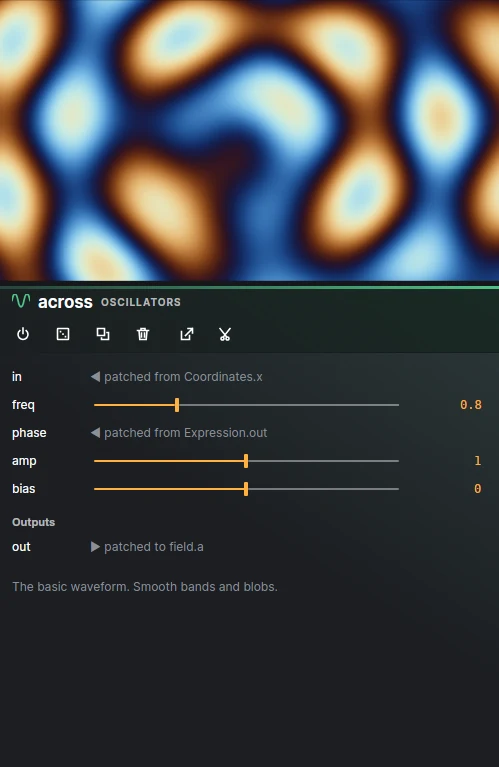
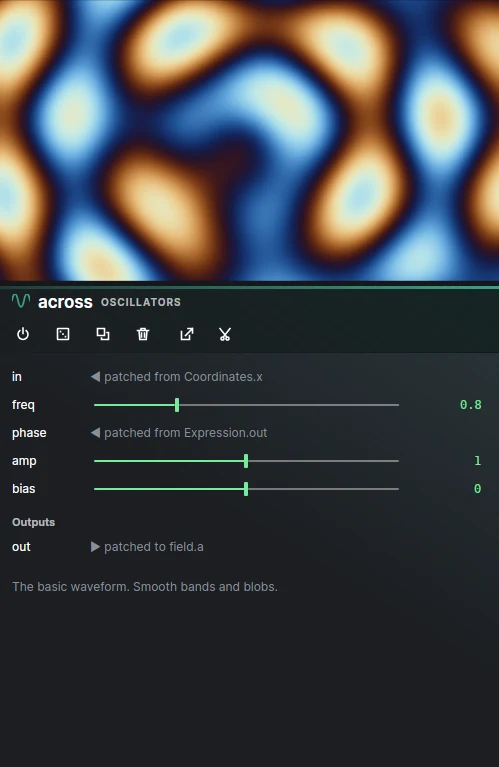
The editor's accent is the P31 green of the Beam's own trace
Amber was the generated default: Arek's other Claude-built app had landed on near-black and nearly the same amber. The accent is now #77EA9A, which the Beam module's formula gives at its default hue where the trace begins to whiten. Oscillators move to a darker sea green so a selected one still shows its ring, and the site's accent follows. ADR-0219 records why.

Test changed in the open: SocketSwitchTests wrote the old amber out as a channel test; it now reads Colors.Attention.

Claude-Session: https://claude.ai/code/session_013fHfANAUevgdY5GbtmwtPg

diff --git a/site/assets/site.css b/site/assets/site.css
@@ -28,7 +28,7 @@
   --normalled: #6C7482;
 
   /* the one color that means "look here" */
-  --attention: #FFB040;
+  --attention: #77EA9A;
 
   /* module families, borrowed to color a heading or a card's edge */
   --sink: #E05A5A;
@@ -128,7 +128,7 @@ strong { color: var(--bright); font-weight: 650; }
   background: var(--node); color: var(--bright);
 }
 .button:hover { background: var(--node-selected); color: var(--bright); }
-.button.primary { background: var(--attention); color: #16181B; border-color: #C98A2E; }
+.button.primary { background: var(--attention); color: #16181B; border-color: #4BB874; }
 .button.primary:hover { background: #FFC266; color: #16181B; }
 .button svg { width: 17px; height: 17px; flex: none; }
 

diff --git a/src/Flyback.Editor/Assist/ProbeSection.cs b/src/Flyback.Editor/Assist/ProbeSection.cs
@@ -16,7 +16,7 @@ namespace Flyback.Editor.Assist;
 /// </remarks>
 internal sealed class ProbeSection : StackPanel
 {
-    private static readonly IBrush Amber = new ImmutableSolidColorBrush(Colors.Attention);
+    private static readonly IBrush Lit = new ImmutableSolidColorBrush(Colors.Attention);
 
     private readonly Func<IPatchAssistant?> assistant;
 
@@ -35,7 +35,7 @@ internal sealed class ProbeSection : StackPanel
     private readonly Button probe = new() { Name = "probe", FontSize = Text.Body };
 
     /// <summary>
-    /// What a probe costs, said in amber above the button rather than in the gray
+    /// What a probe costs, said in the accent above the button rather than in the gray
     /// paragraph over it.
     /// </summary>
     /// <remarks>
@@ -50,7 +50,7 @@ internal sealed class ProbeSection : StackPanel
         Text = "Every question is a real request on your key: this costs money, "
             + "three requests for the one model.",
         FontSize = Text.Small,
-        Foreground = Amber,
+        Foreground = Lit,
         TextWrapping = TextWrapping.Wrap,
     };
 
@@ -184,13 +184,13 @@ internal sealed class ProbeSection : StackPanel
             // lost, and the answer is already lost either way.
             if (!ReferenceEquals(assistant(), asked))
             {
-                Say($"{asked.Name} answered after the provider changed, so nothing was kept.", amber: true);
+                Say($"{asked.Name} answered after the provider changed, so nothing was kept.", lit: true);
                 return;
             }
 
             if (found.Count == 0)
             {
-                Say("The endpoint did not answer for that model. Nothing was changed.", amber: true);
+                Say("The endpoint did not answer for that model. Nothing was changed.", lit: true);
                 return;
             }
 
@@ -218,7 +218,7 @@ internal sealed class ProbeSection : StackPanel
         {
             // A provider's own failure. The window survives it, and the sentence
             // is the whole of what anybody can act on.
-            Say(ex.Message, amber: true);
+            Say(ex.Message, lit: true);
         }
         finally
         {
@@ -262,11 +262,11 @@ internal sealed class ProbeSection : StackPanel
     }
 
     /// <summary>What the probe has to say, or nothing at all.</summary>
-    private void Say(string line, bool amber = false)
+    private void Say(string line, bool lit = false)
     {
         probeNote.Text = line;
         probeNote.IsVisible = line.Length > 0;
-        probeNote.Foreground = amber ? Amber : Text.Muted;
+        probeNote.Foreground = lit ? Lit : Text.Muted;
     }
 
     /// <summary>

diff --git a/src/Flyback.Ui/Controls/Colors.cs b/src/Flyback.Ui/Controls/Colors.cs
@@ -94,13 +94,18 @@ internal static class Colors
     /// Selection, the wire being dragged, and whatever the compiler wants to
     /// say. One color for all three on purpose: they are the same request.
     /// </summary>
-    public static Color Attention { get; } = Color.FromRgb(0xFF, 0xB0, 0x40);
+    /// <remarks>
+    /// P31 green, as the Beam module draws its trace at its default hue, taken where
+    /// the trace begins to whiten (ADR-0219).
+    /// </remarks>
+    public static Color Attention { get; } = Color.FromRgb(0x77, 0xEA, 0x9A);
 
     // --- module accents -----------------------------------------------------
 
     public static Color Sink { get; } = Color.FromRgb(0xE0, 0x5A, 0x5A);
     public static Color Source { get; } = Color.FromRgb(0x4A, 0x9E, 0xDE);
-    public static Color Oscillator { get; } = Color.FromRgb(0x4F, 0xC3, 0x87);
+    /// <summary>A dark sea green, kept off the P31 green of <see cref="Attention"/> so a selected oscillator still shows its ring.</summary>
+    public static Color Oscillator { get; } = Color.FromRgb(0x3A, 0xA1, 0x87);
     public static Color Sequencer { get; } = Color.FromRgb(0xD8, 0xB0, 0x4A);
     public static Color Maths { get; } = Color.FromRgb(0x7E, 0x86, 0x94);
     public static Color Space { get; } = Color.FromRgb(0xB4, 0x84, 0xE0);

diff --git a/src/Flyback.Editor/Tutorials/TutorialPanel.cs b/src/Flyback.Editor/Tutorials/TutorialPanel.cs
@@ -22,7 +22,7 @@ internal sealed class TutorialPanel : UserControl, IReactTo<PatchChanged>
     private static readonly IBrush Chrome = new ImmutableSolidColorBrush(Colors.Panel);
     private static readonly IBrush Rule = new ImmutableSolidColorBrush(Colors.Edge);
     private static readonly IBrush Ink = new ImmutableSolidColorBrush(Colors.Label);
-    private static readonly IBrush Amber = new ImmutableSolidColorBrush(Colors.Attention);
+    private static readonly IBrush Lit = new ImmutableSolidColorBrush(Colors.Attention);
     private static readonly IBrush Met = new ImmutableSolidColorBrush(Colors.Oscillator);
     private static readonly IBrush Current = new ImmutableSolidColorBrush(Colors.NodeSelected);
 
@@ -225,7 +225,7 @@ internal sealed class TutorialPanel : UserControl, IReactTo<PatchChanged>
             lesson.Children.Add(Words(step.Text));
 
             if (Hint is { } hint)
-                lesson.Children.Add(new TextBlock { Name = "tutorial-hint", Text = $"Still to do: {hint}", FontSize = Text.Small, Foreground = Amber, TextWrapping = TextWrapping.Wrap });
+                lesson.Children.Add(new TextBlock { Name = "tutorial-hint", Text = $"Still to do: {hint}", FontSize = Text.Small, Foreground = Lit, TextWrapping = TextWrapping.Wrap });
         }
         else
         {

diff --git a/src/Flyback.Editor/Assist/AssistantStatus.cs b/src/Flyback.Editor/Assist/AssistantStatus.cs
@@ -12,7 +12,7 @@ namespace Flyback.Editor.Assist;
 /// <summary>The pill in the assistant's header holding the beacon: working, ready, not set up, or driven.</summary>
 internal sealed class AssistantStatus
 {
-    private static readonly IBrush Amber = new ImmutableSolidColorBrush(Colors.Attention);
+    private static readonly IBrush Lit = new ImmutableSolidColorBrush(Colors.Attention);
     private static readonly IBrush Live = new ImmutableSolidColorBrush(Colors.Feedback);
     private static readonly IBrush LiveInk = new ImmutableSolidColorBrush(Colors.Blend(Colors.Feedback, Avalonia.Media.Colors.White, 0.3));
     private static readonly IBrush LiveGround = new ImmutableSolidColorBrush(Colors.Faded(Colors.Feedback, 0.13));
@@ -69,7 +69,7 @@ internal sealed class AssistantStatus
     public void Ready(string? blocked)
     {
         beacon.Opacity = 1;
-        beacon.Fill = blocked is null ? Text.Muted : Amber;
+        beacon.Fill = blocked is null ? Text.Muted : Lit;
         progress.Text = blocked is null ? "Ready" : "Not set up";
         progress.Foreground = Ink;
         View.Background = Idle;

diff --git a/src/Flyback.Editor/Assist/AssistantComposer.cs b/src/Flyback.Editor/Assist/AssistantComposer.cs
@@ -19,7 +19,7 @@ namespace Flyback.Editor.Assist;
 /// </summary>
 internal sealed class AssistantComposer
 {
-    private static readonly IBrush Amber = new ImmutableSolidColorBrush(Colors.Attention);
+    private static readonly IBrush Lit = new ImmutableSolidColorBrush(Colors.Attention);
     private static readonly IBrush Chrome = new ImmutableSolidColorBrush(Colors.Panel);
     private static readonly IBrush Rule = new ImmutableSolidColorBrush(Colors.Edge);
 
@@ -181,7 +181,7 @@ internal sealed class AssistantComposer
     }
 
     /// <summary>
-    /// Says why a message cannot be sent, on the box and in amber above it, or
+    /// Says why a message cannot be sent, on the box and in the accent above it, or
     /// nothing where <paramref name="excuse"/> is null.
     /// </summary>
     public void Excuse(string? excuse)
@@ -193,7 +193,7 @@ internal sealed class AssistantComposer
         if (excuse is null) return;
 
         footer.Text = excuse;
-        footer.Foreground = Amber;
+        footer.Foreground = Lit;
     }
 
     /// <summary>

diff --git a/src/Flyback.Editor/Assist/TranscriptView.cs b/src/Flyback.Editor/Assist/TranscriptView.cs
@@ -16,7 +16,7 @@ namespace Flyback.Editor.Assist;
 /// <summary>The assistant's conversation as it is drawn, and as it is kept to be saved with the patch.</summary>
 internal sealed class TranscriptView : ScrollViewer, ITranscript
 {
-    private static readonly IBrush Amber = new ImmutableSolidColorBrush(Colors.Attention);
+    private static readonly IBrush Lit = new ImmutableSolidColorBrush(Colors.Attention);
     private static readonly IBrush Ink = new ImmutableSolidColorBrush(Colors.Label);
     private static readonly IBrush Live = new ImmutableSolidColorBrush(Colors.Feedback);
 
@@ -156,7 +156,7 @@ internal sealed class TranscriptView : ScrollViewer, ITranscript
                 break;
 
             case Voice.Failed:
-                Card(text, Colors.Attention, Glyphs.Warning(10, Amber), "Failed", null);
+                Card(text, Colors.Attention, Glyphs.Warning(10, Lit), "Failed", null);
                 break;
 
             // A lookup is a step it took; the briefing comes before any turn.

diff --git a/tests/Flyback.Editor.Tests/Canvas/SocketSwitchTests.cs b/tests/Flyback.Editor.Tests/Canvas/SocketSwitchTests.cs
@@ -298,7 +298,9 @@ public class SocketSwitchTests : EditorTest
         Settle(window);
     }
 
-    private static bool Attention(Avalonia.Media.Color color) => color.R > 0xC0 && color.G > 0x80 && color.B < 0x90;
+    /// <summary>Within a few steps of the turning color, read off <see cref="Colors.Attention"/> rather than written out again.</summary>
+    private static bool Attention(Avalonia.Media.Color color) =>
+        Math.Abs(color.R - Colors.Attention.R) + Math.Abs(color.G - Colors.Attention.G) + Math.Abs(color.B - Colors.Attention.B) < 60;
 
     /// <summary>The bottom of the ring round a socket, below the socket's own dot, as a rectangle of the patch.</summary>
     private static Rect UnderRing(NodeEditor editor, NodeInstance node, int port)

diff --git a/src/Flyback.Editor/ReportLine.cs b/src/Flyback.Editor/ReportLine.cs
@@ -292,7 +292,7 @@ internal sealed class ReportLine : UserControl
 
         // Which rows are still on the bar — all of them, when several things
         // were said at once. Only a message that is still up is still true, and
-        // an amber row under a status bar that has gone quiet says the opposite
+        // an accent-colored row under a status bar that has gone quiet says the opposite
         // of what happened. The last of each, because a problem that was fixed
         // and came back is the newer row rather than both.
         var standing = spoken

diff --git a/src/Flyback.Editor/Assist/ContextStrip.cs b/src/Flyback.Editor/Assist/ContextStrip.cs
@@ -22,7 +22,7 @@ internal sealed class ContextStrip : StackPanel
     private static readonly IBrush Full = new ImmutableSolidColorBrush(Colors.Attention);
     private static readonly IBrush Ink = new ImmutableSolidColorBrush(Colors.Label);
 
-    /// <summary>Past this much of the limit the bar turns amber: the next message may be the last.</summary>
+    /// <summary>Past this much of the limit the bar turns to the accent: the next message may be the last.</summary>
     private const double Nearly = 0.85;
 
     private readonly Button strip = new()

diff --git a/src/Flyback.Editor/EditorTheme.cs b/src/Flyback.Editor/EditorTheme.cs
@@ -32,7 +32,7 @@ internal static class EditorTheme
         resources["ButtonBackgroundDisabled"] = Brushes.Transparent;
         resources["ToggleButtonBackgroundDisabled"] = Brushes.Transparent;
 
-        // Dark ink on the amber of a toggle that is down; white on it fails contrast.
+        // Dark ink on the accent of a toggle that is down; white on it fails contrast.
         var ink = new SolidColorBrush(Colors.Window);
         resources["ToggleButtonForegroundChecked"] = ink;
         resources["ToggleButtonForegroundCheckedPointerOver"] = ink;

diff --git a/src/Flyback.Editor/Controls/Shimmer.cs b/src/Flyback.Editor/Controls/Shimmer.cs
@@ -23,7 +23,7 @@ internal sealed class Shimmer : TextBlock
     /// <summary>How wide the light is, against the word.</summary>
     private const double Reach = 0.35;
 
-    /// <summary>The status line's own amber, with the light taken out of it.</summary>
+    /// <summary>The status line's own accent, with the light taken out of it.</summary>
     private static readonly Color Dim = Colors.Shade(Colors.Attention, 0.5);
 
     private readonly DispatcherTimer timer = new(DispatcherPriority.Background) { Interval = TimeSpan.FromMilliseconds(33) };
